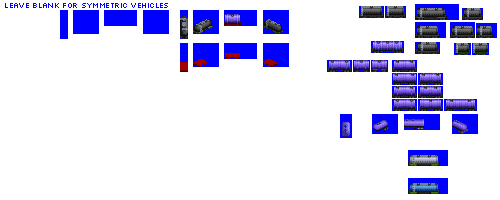
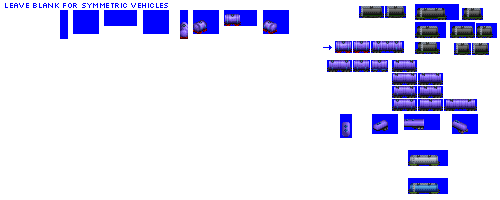
Change: sprites complete for gen 5A tank car

diff --git a/src/vehicles/tank_cars.py b/src/vehicles/tank_cars.py
@@ -91,7 +91,8 @@ def main():
     consist = TankCarConsist(roster='pony',
                              base_numeric_id=2410,
                              gen=5,
-                             subtype='A')
+                             subtype='A',
+                             sprites_complete=True)
 
     consist.add_unit(type=FreightCar,
                      vehicle_length=4,
